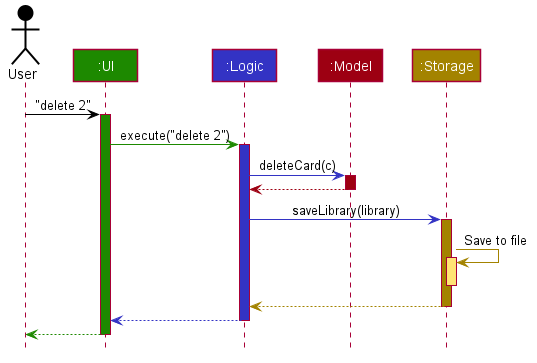
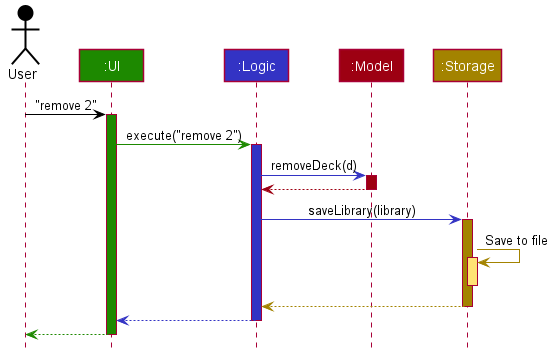
Rebuild pages at 2c76f2094fa33541d30a4a26e1b5aa41ddafd8b8

diff --git a/DeveloperGuide.html b/DeveloperGuide.html
@@ -29,16 +29,15 @@
 </li>
 <li><a href="#implementation">4. Implementation</a>
 <ul class="sectlevel2">
-<li><a href="#select-to-view-a-deck">4.1. Select to view a Deck</a></li>
-<li><a href="#create-a-new-deck">4.2. Create A new Deck</a></li>
-<li><a href="#create-a-new-card">4.3. Create A new Card</a></li>
-<li><a href="#shortcut-editing-of-card-face-values">4.4. Shortcut editing of Card face values</a></li>
-<li><a href="#play-mode-create-a-new-session-with-a-specific-deck">4.5. Play mode: create a new session with a specific deck</a></li>
-<li><a href="#flip-cards-in-the-deck">4.6. Flip cards in the deck</a></li>
-<li><a href="#answer-to-the-card">4.7. Answer to the card</a></li>
-<li><a href="#proposed-data-encryption">4.8. [Proposed] Data Encryption</a></li>
-<li><a href="#logging">4.9. Logging</a></li>
-<li><a href="#Implementation-Configuration">4.10. Configuration</a></li>
+<li><a href="#selecting-a-deck">4.1. Selecting a Deck</a></li>
+<li><a href="#creating-a-deck">4.2. Creating a Deck</a></li>
+<li><a href="#creating-a-card">4.3. Creating a Card</a></li>
+<li><a href="#editing-a-card-shortcut-formats">4.4. Editing a Card: Shortcut Formats</a></li>
+<li><a href="#starting-a-play-session">4.5. Starting a play session</a></li>
+<li><a href="#flipping-a-card">4.6. Flipping a Card</a></li>
+<li><a href="#answering-in-a-play-session">4.7. Answering in a play session</a></li>
+<li><a href="#logging">4.8. Logging</a></li>
+<li><a href="#Implementation-Configuration">4.9. Configuration</a></li>
 </ul>
 </li>
 <li><a href="#documentation">5. Documentation</a></li>
@@ -148,14 +147,18 @@
 <div class="sectionbody">
 <div class="sect2">
 <h3 id="Design-Architecture"><a class="link" href="#Design-Architecture">3.1. Architecture</a></h3>
+<div class="paragraph">
+<p>FlashSpeed is mainly built on top of a few core components, runner components, and helper components. The core is where
+the bulk of the design decisions are made and data processing is performed.</p>
+</div>
+<div class="paragraph">
+<p>The <strong><em>Architecture Diagram</em></strong> below gives a high-level overview of the FlashSpeed App.</p>
+</div>
 <div class="imageblock">
 <div class="content">
 <img src="images/ArchitectureDiagram.png" alt="ArchitectureDiagram">
 </div>
 <div class="title">Figure 1. Architecture Diagram</div>
-</div>
-<div class="paragraph">
-<p>The <strong><em>Architecture Diagram</em></strong> given above explains the high-level design of the FlashSpeed App. Given below is a quick overview of each component.</p>
 </div>
 <div class="admonitionblock tip">
 <table>
@@ -171,45 +174,64 @@ Refer to the <a href="UsingPlantUml.html">Using PlantUML guide</a> to learn how 
 </table>
 </div>
 <div class="paragraph">
+<p>Given below is a quick overview of each component.</p>
+</div>
+<div class="paragraph">
+<p><strong>The Runners:</strong><br></p>
+</div>
+<div class="paragraph">
 <p><code>Main</code> has two classes called <a href="https://github.com/AY1920S2-CS2103T-W17-1/main/src/main/java/seedu/address/Main.java"><code>Main</code></a> and <a href="https://github.com/AY1920S2-CS2103T-W17-1/main/src/main/java/seedu/address/MainApp.java"><code>MainApp</code></a>. It is responsible for,</p>
 </div>
 <div class="ulist">
 <ul>
 <li>
-<p>At app launch: Initializes the components in the correct sequence, and connects them up with each other.</p>
+<p>At launch: Initializes the core components in the correct sequence, sets up their initial states, and connects them up
+with each other.</p>
 </li>
 <li>
-<p>At shut down: Shuts down the components and invokes cleanup method where necessary.</p>
+<p>At exit: Performs cleanup of components where necessary and shuts down FlashSpeed.</p>
 </li>
 </ul>
+</div>
+<div class="paragraph">
+<p><strong>The Helpers:</strong><br></p>
 </div>
 <div class="paragraph">
 <p><a href="#Design-Commons"><strong><code>Commons</code></strong></a> represents a collection of classes used by multiple other components.
-The following class plays an important role at the architecture level:</p>
+The following classes plays an important role at the architecture level:</p>
 </div>
 <div class="ulist">
 <ul>
 <li>
-<p><code>LogsCenter</code> : Used by many classes to write log messages to the App&#8217;s log file.</p>
+<p><code>LogsCenter</code> : Writes log messages from many different running components to the FlashSpeed&#8217;s log file and console.</p>
+</li>
+<li>
+<p><code>Index</code> : Provides storage of index numbers and easy conversion between one- and zero-based indices.</p>
+</li>
+<li>
+<p><code>Messages</code> : Keeps many user-visible messages for invalid user actions.</p>
+</li>
+<li>
+<p><code>Exceptions</code> : Contains different types of specific exceptions which can occur due to invalid user actions.</p>
 </li>
 </ul>
 </div>
 <div class="paragraph">
-<p>The rest of the App consists of four components.</p>
+<p><strong>The Core:</strong><br></p>
 </div>
 <div class="ulist">
 <ul>
 <li>
-<p><a href="#Design-Ui"><strong><code>UI</code></strong></a>: The UI of the App.</p>
+<p><a href="#Design-Ui"><strong><code>UI</code></strong></a>: The UI of FlashSpeed.</p>
 </li>
 <li>
 <p><a href="#Design-Logic"><strong><code>Logic</code></strong></a>: The command executor.</p>
 </li>
 <li>
-<p><a href="#Design-Model"><strong><code>Model</code></strong></a>: Holds the data of the App in-memory.</p>
+<p><a href="#Design-Model"><strong><code>Model</code></strong></a>: Holds the data and current state of FlashSpeed in-memory.</p>
 </li>
 <li>
-<p><a href="#Design-Storage"><strong><code>Storage</code></strong></a>: Reads data from, and writes data to, the hard disk.</p>
+<p><a href="#Design-Storage"><strong><code>Storage</code></strong></a>: Reads data from and writes data to a data file on the hard disk.</p>
 </li>
 </ul>
 </div>
@@ -235,15 +257,15 @@ The following class plays an important role at the architecture level:</p>
 </div>
 <div class="title">Figure 2. Class Diagram of the Logic Component</div>
 </div>
-<h4 id="3-1-1-how-the-architecture-components-interact-with-each-other" class="discrete">3.1.1 How the architecture components interact with each other</h4>
+<h4 id="3-1-1-how-the-core-components-interact-with-each-other" class="discrete">3.1.1 How the core components interact with each other</h4>
 <div class="paragraph">
-<p>The <em>Sequence Diagram</em> below shows how the components interact with each other for the scenario where the user issues the command <code>delete 2</code>.</p>
+<p>The <em>Sequence Diagram</em> below shows how the core components interact with each other for the scenario where the user issues the command <code>remove 2</code>.</p>
 </div>
 <div class="imageblock">
 <div class="content">
 <img src="images/ArchitectureSequenceDiagram.png" alt="ArchitectureSequenceDiagram">
 </div>
-<div class="title">Figure 3. Component interactions for <code>delete 2</code> command</div>
+<div class="title">Figure 3. Component interactions for the <code>remove 2</code> command</div>
 </div>
 <div class="paragraph">
 <p>The sections below give more details of each component.</p>
@@ -312,13 +334,13 @@ The following class plays an important role at the architecture level:</p>
 </ol>
 </div>
 <div class="paragraph">
-<p>Given below is the Sequence Diagram for interactions within the <code>Logic</code> component for the <code>execute("delete 1")</code> API call.</p>
+<p>Given below is the Sequence Diagram for interactions within the <code>Logic</code> component for the <code>execute("remove 2")</code> API call.</p>
 </div>
 <div class="imageblock">
 <div class="content">
 <img src="images/DeleteSequenceDiagram.png" alt="DeleteSequenceDiagram">
 </div>
-<div class="title">Figure 6. Interactions Inside the Logic Component for the <code>delete 1</code> Command</div>
+<div class="title">Figure 6. Interactions inside the Logic Component for the <code>remove 2</code> command</div>
 </div>
 <div class="admonitionblock note">
 <table>
@@ -327,7 +349,7 @@ The following class plays an important role at the architecture level:</p>
 <i class="fa icon-note" title="Note"></i>
 </td>
 <td class="content">
-The lifeline for <code>DeleteCommandParser</code> should end at the destroy marker (X) but due to a limitation of PlantUML, the lifeline reaches the end of diagram.
+The lifeline for <code>RemoveDeckCommandParser</code> should end at the destroy marker (X) but due to a limitation of PlantUML, the lifeline reaches the end of diagram.
 </td>
 </tr>
 </table>
@@ -422,7 +444,7 @@ The lifeline for <code>DeleteCommandParser</code> should end at the destroy mark
 <p>This section describes some noteworthy details on how certain features are implemented.</p>
 </div>
 <div class="sect2">
-<h3 id="select-to-view-a-deck"><a class="link" href="#select-to-view-a-deck">4.1. Select to view a Deck</a></h3>
+<h3 id="selecting-a-deck"><a class="link" href="#selecting-a-deck">4.1. Selecting a Deck</a></h3>
 <div class="sect3">
 <h4 id="current-implementation"><a class="link" href="#current-implementation">4.1.1. Current Implementation</a></h4>
 <div class="paragraph">
@@ -455,7 +477,7 @@ object is then constructed with the Index as its parameter.</p>
 </div>
 </div>
 <div class="sect2">
-<h3 id="create-a-new-deck"><a class="link" href="#create-a-new-deck">4.2. Create A new Deck</a></h3>
+<h3 id="creating-a-deck"><a class="link" href="#creating-a-deck">4.2. Creating a Deck</a></h3>
 <div class="sect3">
 <h4 id="current-implementation-2"><a class="link" href="#current-implementation-2">4.2.1. Current Implementation</a></h4>
 <div class="paragraph">
@@ -516,7 +538,7 @@ which is to assign different keywords to these two different feature.</p>
 </div>
 </div>
 <div class="sect2">
-<h3 id="create-a-new-card"><a class="link" href="#create-a-new-card">4.3. Create A new Card</a></h3>
+<h3 id="creating-a-card"><a class="link" href="#creating-a-card">4.3. Creating a Card</a></h3>
 <div class="sect3">
 <h4 id="current-implementation-3"><a class="link" href="#current-implementation-3">4.3.1. Current Implementation</a></h4>
 <div class="paragraph">
@@ -559,7 +581,7 @@ on the right panel. Lastly, the name of the selected Deck will be displayed toge
 </div>
 </div>
 <div class="sect2">
-<h3 id="shortcut-editing-of-card-face-values"><a class="link" href="#shortcut-editing-of-card-face-values">4.4. Shortcut editing of Card face values</a></h3>
+<h3 id="editing-a-card-shortcut-formats"><a class="link" href="#editing-a-card-shortcut-formats">4.4. Editing a Card: Shortcut Formats</a></h3>
 <div class="sect3">
 <h4 id="current-implementation-4"><a class="link" href="#current-implementation-4">4.4.1. Current Implementation</a></h4>
 <div class="paragraph">
@@ -587,8 +609,17 @@ value in the new Card will be a blank string (since either <code>FRONT</code> or
 blank value will be replaced by the associated value in the Card to be replaced.</p>
 </div>
 <div class="paragraph">
+<p>Below is a summary of the operations flow during the editing of a card.</p>
+</div>
+<div class="imageblock">
+<div class="content">
+<img src="images/EditCardActivityDiagram.png" alt="EditCardActivityDiagram">
+</div>
+<div class="title">Figure 10. Operations flow during an Edit command.</div>
+</div>
+<div class="paragraph">
 <p>The validation of the arguments in the <code>edit</code> command is performed in <code>EditCommandParser#parse()</code>. Note that
-the validation only checks that the command is well-formed. It does not check for the validity of the command
+the validation only checks that the command is well-formed, i.e. understandable by FlashSpeed. It does not check for the validity of the command
 in the current environment (e.g. if we are currently in Deck view or not). This is for separation of parsing
 logic and model management logic.</p>
 </div>
@@ -606,22 +637,18 @@ the Index of the card to be edited is checked by ensuring it is in the range of 
 <div class="paragraph">
 <p>To perform a replacement of a Card in the current Deck, we need the old Card and the new Card. The old Card is required
 so we can know which Card is to be replaced via an equality check and also to know the face value which needs to be
-preserved (if needed). We can get the Card to be edited using <code>ModelManager#getCard()</code> with the provided Index. We can
-then perform the replacement using <code>ModelManager#replaceCard()</code> with the old Card and the new Card as the parameters.</p>
+preserved (if needed). We can get the Card to be edited using <code>ModelManager#getCard()</code> with the provided Index.
+The new Card can then be created.
+We can then perform the replacement using <code>ModelManager#replaceCard()</code> with the old Card and the new Card as the parameters.</p>
 </div>
 <div class="paragraph">
-<p><code>ModelManager#replaceCard()</code> will go through <code>Deck#replace()</code> and finally to <code>UniqueCardList#replace()</code>.
-In <code>UniqueCardList#replace()</code>, if the new Card has an empty string as its value in either face, the value is
-replaced with the face value of the Card in the current Deck to be replaced. This preserves the old face value
-which was expected from using the shortcut formats of the <code>edit</code> command.</p>
-</div>
-<div class="paragraph">
-<p>The following sequence diagram shows how the <code>edit</code> operation works:</p>
+<p>The following sequence diagram shows how the sequence of operations due to an <code>edit</code> command.</p>
 </div>
 <div class="imageblock">
 <div class="content">
 <img src="images/EditSequenceDiagram.png" alt="EditSequenceDiagram">
 </div>
+<div class="title">Figure 11. Operations performed for the <code>edit 1 fr:bk</code> command.</div>
 </div>
 </div>
 <div class="sect3">
@@ -662,7 +689,7 @@ which was expected from using the shortcut formats of the <code>edit</code> comm
 </div>
 </div>
 <div class="sect2">
-<h3 id="play-mode-create-a-new-session-with-a-specific-deck"><a class="link" href="#play-mode-create-a-new-session-with-a-specific-deck">4.5. Play mode: create a new session with a specific deck</a></h3>
+<h3 id="starting-a-play-session"><a class="link" href="#starting-a-play-session">4.5. Starting a play session</a></h3>
 <div class="sect3">
 <h4 id="current-implementation-5"><a class="link" href="#current-implementation-5">4.5.1. Current Implementation</a></h4>
 <div class="paragraph">
@@ -701,7 +728,7 @@ The first card of the selected deck is obtained using <code>deck#asUnmodifiableO
 </div>
 </div>
 <div class="sect2">
-<h3 id="flip-cards-in-the-deck"><a class="link" href="#flip-cards-in-the-deck">4.6. Flip cards in the deck</a></h3>
+<h3 id="flipping-a-card"><a class="link" href="#flipping-a-card">4.6. Flipping a Card</a></h3>
 <div class="sect3">
 <h4 id="current-implementation-6"><a class="link" href="#current-implementation-6">4.6.1. Current Implementation</a></h4>
 <div class="paragraph">
@@ -733,7 +760,7 @@ by checking if the returned <code>BACK</code> face of the card is empty since a 
 </div>
 </div>
 <div class="sect2">
-<h3 id="answer-to-the-card"><a class="link" href="#answer-to-the-card">4.7. Answer to the card</a></h3>
+<h3 id="answering-in-a-play-session"><a class="link" href="#answering-in-a-play-session">4.7. Answering in a play session</a></h3>
 <div class="sect3">
 <h4 id="current-implementation-7"><a class="link" href="#current-implementation-7">4.7.1. Current Implementation</a></h4>
 <div class="paragraph">
@@ -771,20 +798,14 @@ if the returned card is empty.</p>
 </div>
 </div>
 <div class="sect2">
-<h3 id="proposed-data-encryption"><a class="link" href="#proposed-data-encryption">4.8. [Proposed] Data Encryption</a></h3>
-<div class="paragraph">
-<p><em>{Explain here how the data encryption feature will be implemented}</em></p>
-</div>
-</div>
-<div class="sect2">
-<h3 id="logging"><a class="link" href="#logging">4.9. Logging</a></h3>
+<h3 id="logging"><a class="link" href="#logging">4.8. Logging</a></h3>
 <div class="paragraph">
 <p>We are using <code>java.util.logging</code> package for logging. The <code>LogsCenter</code> class is used to manage the logging levels and logging destinations.</p>
 </div>
 <div class="ulist">
 <ul>
 <li>
-<p>The logging level can be controlled using the <code>logLevel</code> setting in the configuration file (See <a href="#Implementation-Configuration">Section 4.10, &#8220;Configuration&#8221;</a>)</p>
+<p>The logging level can be controlled using the <code>logLevel</code> setting in the configuration file (See <a href="#Implementation-Configuration">Section 4.9, &#8220;Configuration&#8221;</a>)</p>
 </li>
 <li>
 <p>The <code>Logger</code> for a class can be obtained using <code>LogsCenter.getLogger(Class)</code> which will log messages according to the specified logging level</p>
@@ -815,7 +836,7 @@ if the returned card is empty.</p>
 </div>
 </div>
 <div class="sect2">
-<h3 id="Implementation-Configuration"><a class="link" href="#Implementation-Configuration">4.10. Configuration</a></h3>
+<h3 id="Implementation-Configuration"><a class="link" href="#Implementation-Configuration">4.9. Configuration</a></h3>
 <div class="paragraph">
 <p>Certain properties of the application can be controlled (e.g user prefs file location, logging level) through the configuration file (default: <code>config.json</code>).</p>
 </div>
@@ -1672,4 +1693,4 @@ Expected: Similar to previous.</p>
 </div>
 </div>
 </div>
-</div></div><div id="footer"><div class="container"><div id="footer-text">Last updated 2020-04-10 07:08:59 UTC</div></div></div></body></html>
+</div></div><div id="footer"><div class="container"><div id="footer-text">Last updated 2020-04-10 16:42:10 UTC</div></div></div></body></html>

diff --git a/tutorials/RemovingFields.html b/tutorials/RemovingFields.html
@@ -175,4 +175,4 @@ While keeping the <code>address</code> field in the json files does not cause th
 <p>You can go through each individual <code>json</code> file and manually remove the <code>address</code> field.</p>
 </div>
 </div>
-</div></div><div id="footer"><div class="container"><div id="footer-text">Last updated 2020-04-10 07:08:59 UTC</div></div></div></body></html>
+</div></div><div id="footer"><div class="container"><div id="footer-text">Last updated 2020-04-10 16:42:10 UTC</div></div></div></body></html>

diff --git a/Testing.html b/Testing.html
@@ -90,4 +90,4 @@ e.g. <code>seedu.address.logic.LogicManagerTest</code></p>
 <div class="title">Figure 1. <code>Accessibility</code> permission is granted to <code>IntelliJ IDEA</code></div>
 </div>
 </div>
-</div></div><div id="footer"><div class="container"><div id="footer-text">Last updated 2020-04-10 07:08:59 UTC</div></div></div></body></html>
+</div></div><div id="footer"><div class="container"><div id="footer-text">Last updated 2020-04-10 16:42:10 UTC</div></div></div></body></html>

diff --git a/tutorials/AddRemark.html b/tutorials/AddRemark.html
@@ -616,4 +616,4 @@ In this case, <code>CommandTestUtil#assertCommandSuccess</code> is the best fit 
 <p>This concludes the tutorial for adding a new <code>Command</code> to AddressBook.</p>
 </div>
 </div>
-</div></div><div id="footer"><div class="container"><div id="footer-text">Last updated 2020-04-10 07:08:59 UTC</div></div></div></body></html>
+</div></div><div id="footer"><div class="container"><div id="footer-text">Last updated 2020-04-10 16:42:10 UTC</div></div></div></body></html>

diff --git a/SettingUp.html b/SettingUp.html
@@ -180,4 +180,4 @@ Having both Travis and AppVeyor ensures your App works on both Unix-based platfo
 </div>
 </div>
 </div>
-</div></div><div id="footer"><div class="container"><div id="footer-text">Last updated 2020-04-10 07:08:59 UTC</div></div></div></body></html>
+</div></div><div id="footer"><div class="container"><div id="footer-text">Last updated 2020-04-10 16:42:10 UTC</div></div></div></body></html>

diff --git a/UsingGradle.html b/UsingGradle.html
@@ -228,4 +228,4 @@ See <code>build.gradle</code> &#8594; <code>allprojects</code> &#8594; <code>dep
 </ul>
 </div>
 </div>
-</div></div><div id="footer"><div class="container"><div id="footer-text">Last updated 2020-04-10 07:08:59 UTC</div></div></div></body></html>
+</div></div><div id="footer"><div class="container"><div id="footer-text">Last updated 2020-04-10 16:42:10 UTC</div></div></div></body></html>

diff --git a/UsingNetlify.html b/UsingNetlify.html
@@ -138,4 +138,4 @@ The publish directory is the directory in which the built HTML documentation res
 </ol>
 </div>
 </div>
-</div></div><div id="footer"><div class="container"><div id="footer-text">Last updated 2020-04-10 07:08:59 UTC</div></div></div></body></html>
+</div></div><div id="footer"><div class="container"><div id="footer-text">Last updated 2020-04-10 16:42:10 UTC</div></div></div></body></html>

diff --git a/Documentation.html b/Documentation.html
@@ -226,4 +226,4 @@ The SE-EDU team does not provide support for modified template files.</p>
 </table>
 </div>
 </div>
-</div></div><div id="footer"><div class="container"><div id="footer-text">Last updated 2020-04-10 07:08:59 UTC</div></div></div></body></html>
+</div></div><div id="footer"><div class="container"><div id="footer-text">Last updated 2020-04-10 16:42:10 UTC</div></div></div></body></html>

diff --git a/team/johndoe.html b/team/johndoe.html
@@ -161,4 +161,4 @@
 <p><em>{Optionally, you may include other projects in your portfolio.}</em></p>
 </div>
 </div>
-</div></div><div id="footer"><div class="container"><div id="footer-text">Last updated 2020-04-10 07:08:59 UTC</div></div></div></body></html>
+</div></div><div id="footer"><div class="container"><div id="footer-text">Last updated 2020-04-10 16:42:10 UTC</div></div></div></body></html>

diff --git a/UsingTravis.html b/UsingTravis.html
@@ -292,4 +292,4 @@ Suggested change: Remove the codacy badge from <code>README</code>.</p>
 </div>
 </div>
 </div>
-</div></div><div id="footer"><div class="container"><div id="footer-text">Last updated 2020-04-10 07:08:59 UTC</div></div></div></body></html>
+</div></div><div id="footer"><div class="container"><div id="footer-text">Last updated 2020-04-10 16:42:10 UTC</div></div></div></body></html>

diff --git a/UsingPlantUml.html b/UsingPlantUml.html
@@ -337,4 +337,4 @@ Explicitly define all symbols to avoid any potential layout mishaps.
 </div>
 </div>
 </div>
-</div></div><div id="footer"><div class="container"><div id="footer-text">Last updated 2020-04-10 07:08:59 UTC</div></div></div></body></html>
+</div></div><div id="footer"><div class="container"><div id="footer-text">Last updated 2020-04-10 16:42:10 UTC</div></div></div></body></html>

diff --git a/HelpWindow.html b/HelpWindow.html
@@ -961,4 +961,4 @@ e.g. <code>delete 3</code></p>
 <p><br></p>
 </div>
 </div>
-</div></div><div id="footer"><div class="container"><div id="footer-text">Last updated 2020-04-10 07:08:59 UTC</div></div></div></body></html>
+</div></div><div id="footer"><div class="container"><div id="footer-text">Last updated 2020-04-10 16:42:10 UTC</div></div></div></body></html>
